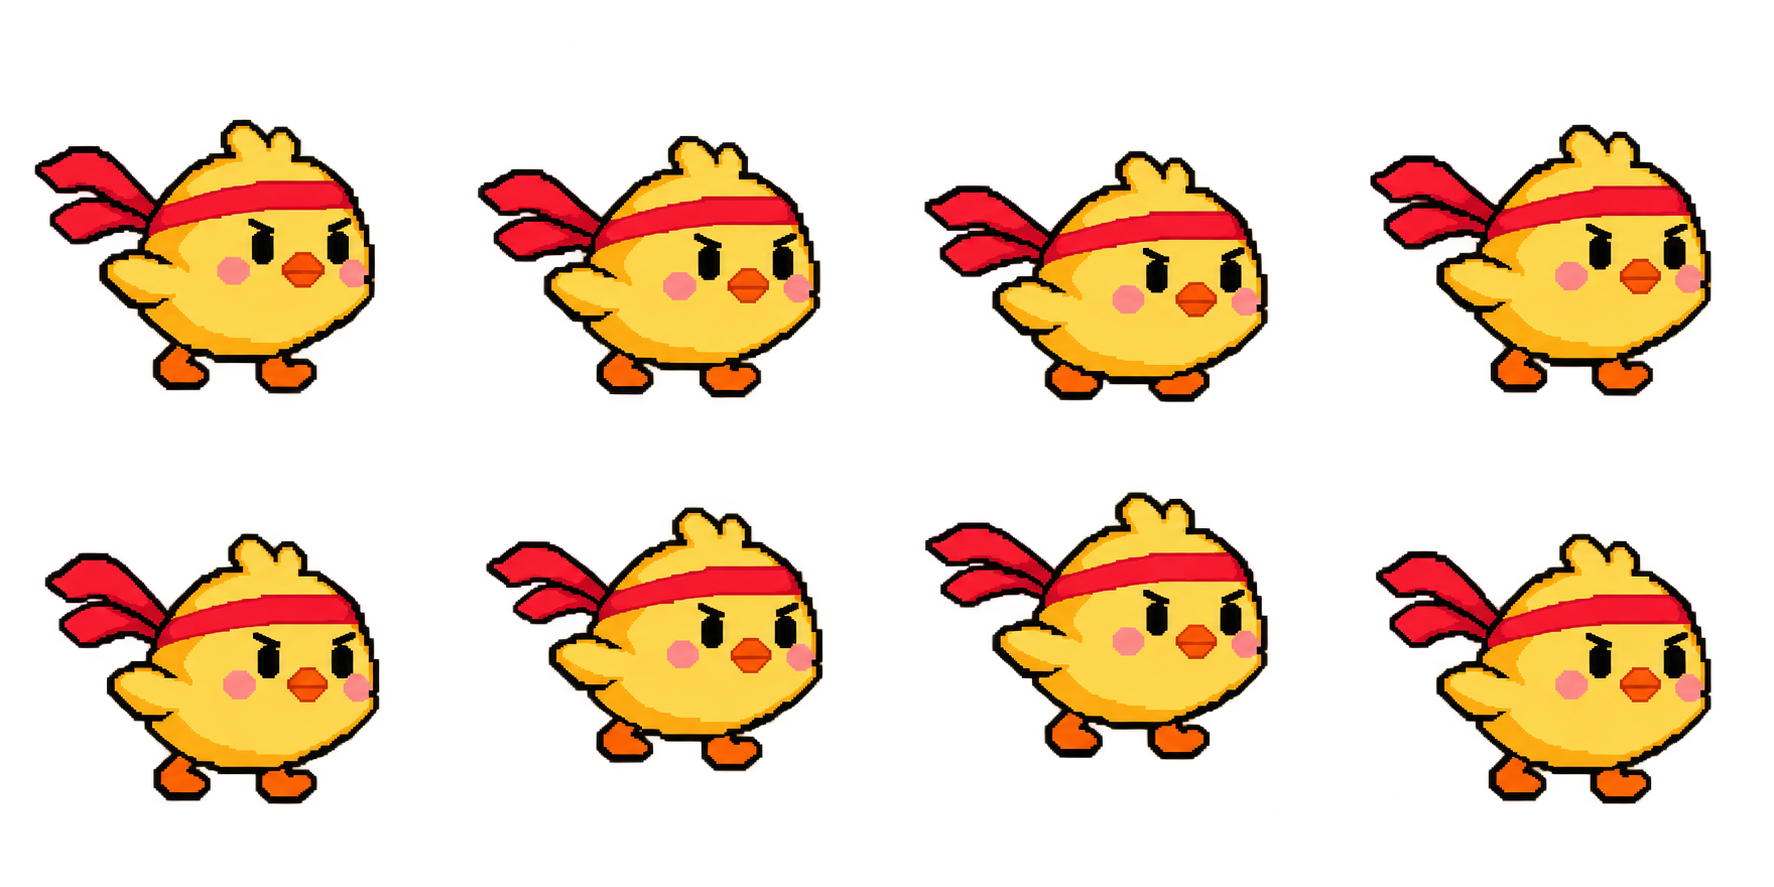
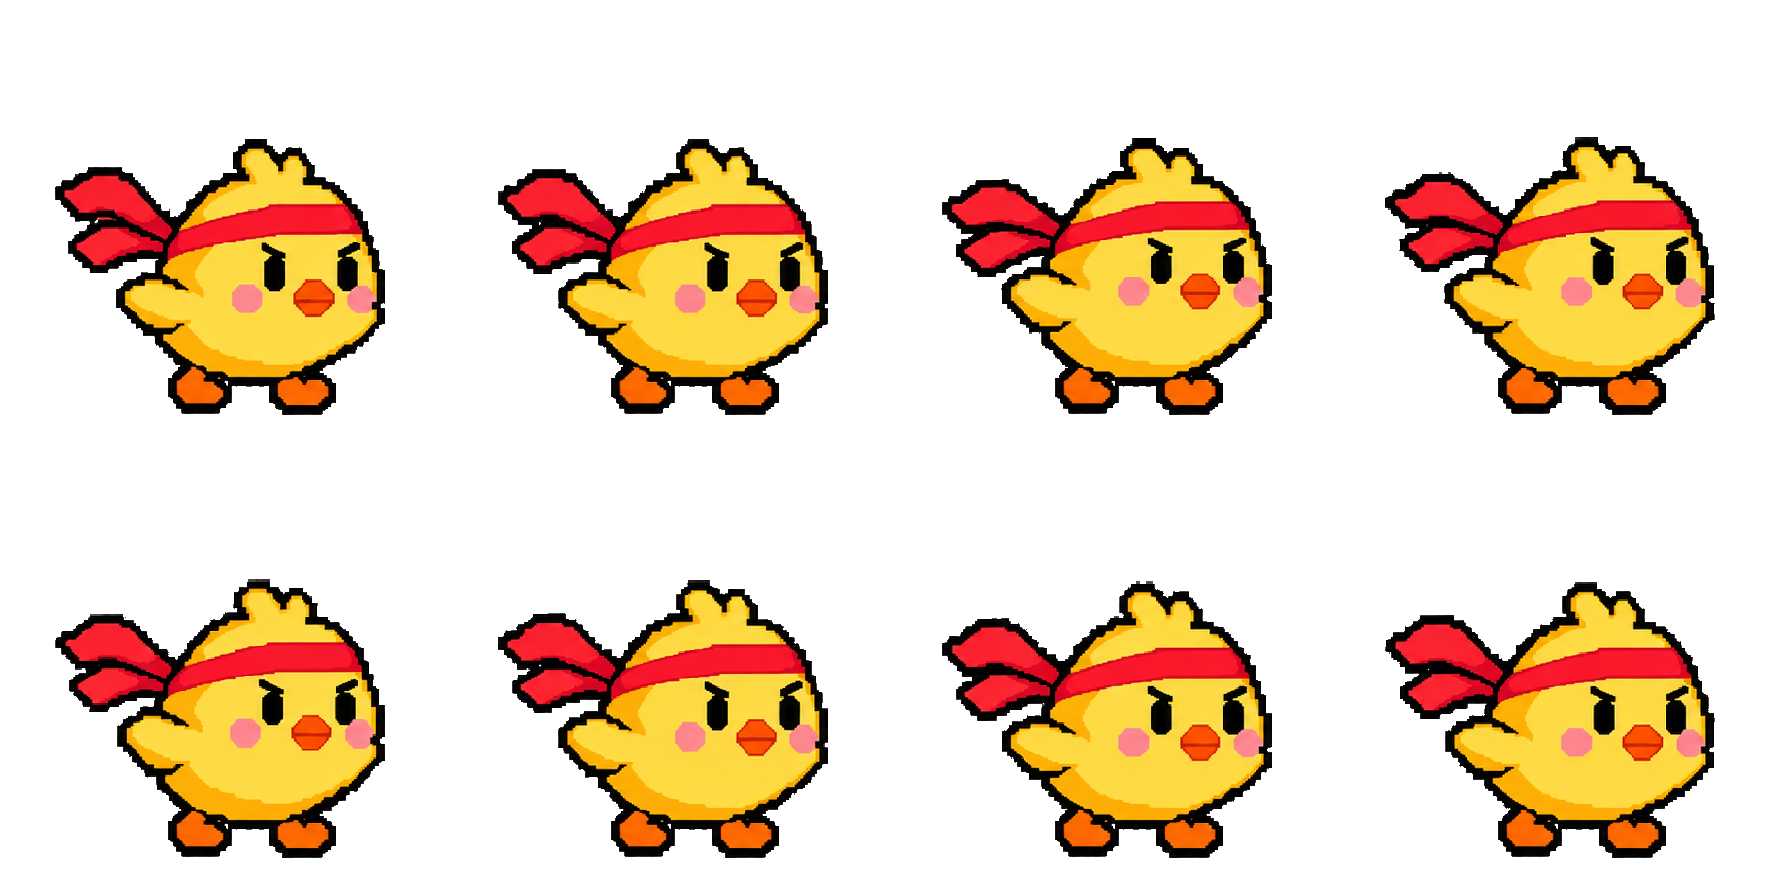
fix: keep Ashi idle breathing subtle and feet grounded

diff --git a/Assets/Tests/Editor/AshiAnimationTests.cs b/Assets/Tests/Editor/AshiAnimationTests.cs
@@ -31,7 +31,7 @@ namespace Vampire.Tests.Editor
 
             AssertSequence(blueprint.idleSpriteSequence, "Ashi_Idle_Eyebrows");
             AssertSequence(blueprint.dashSpriteSequence, "Ashi_Dash_Eyebrows");
-            Assert.That(blueprint.idleFrameTime, Is.EqualTo(0.125f).Within(0.0001f));
+            Assert.That(blueprint.idleFrameTime, Is.EqualTo(0.18f).Within(0.0001f));
             Assert.That(blueprint.dashFrameTime, Is.EqualTo(0.0275f).Within(0.0001f));
         }
 
